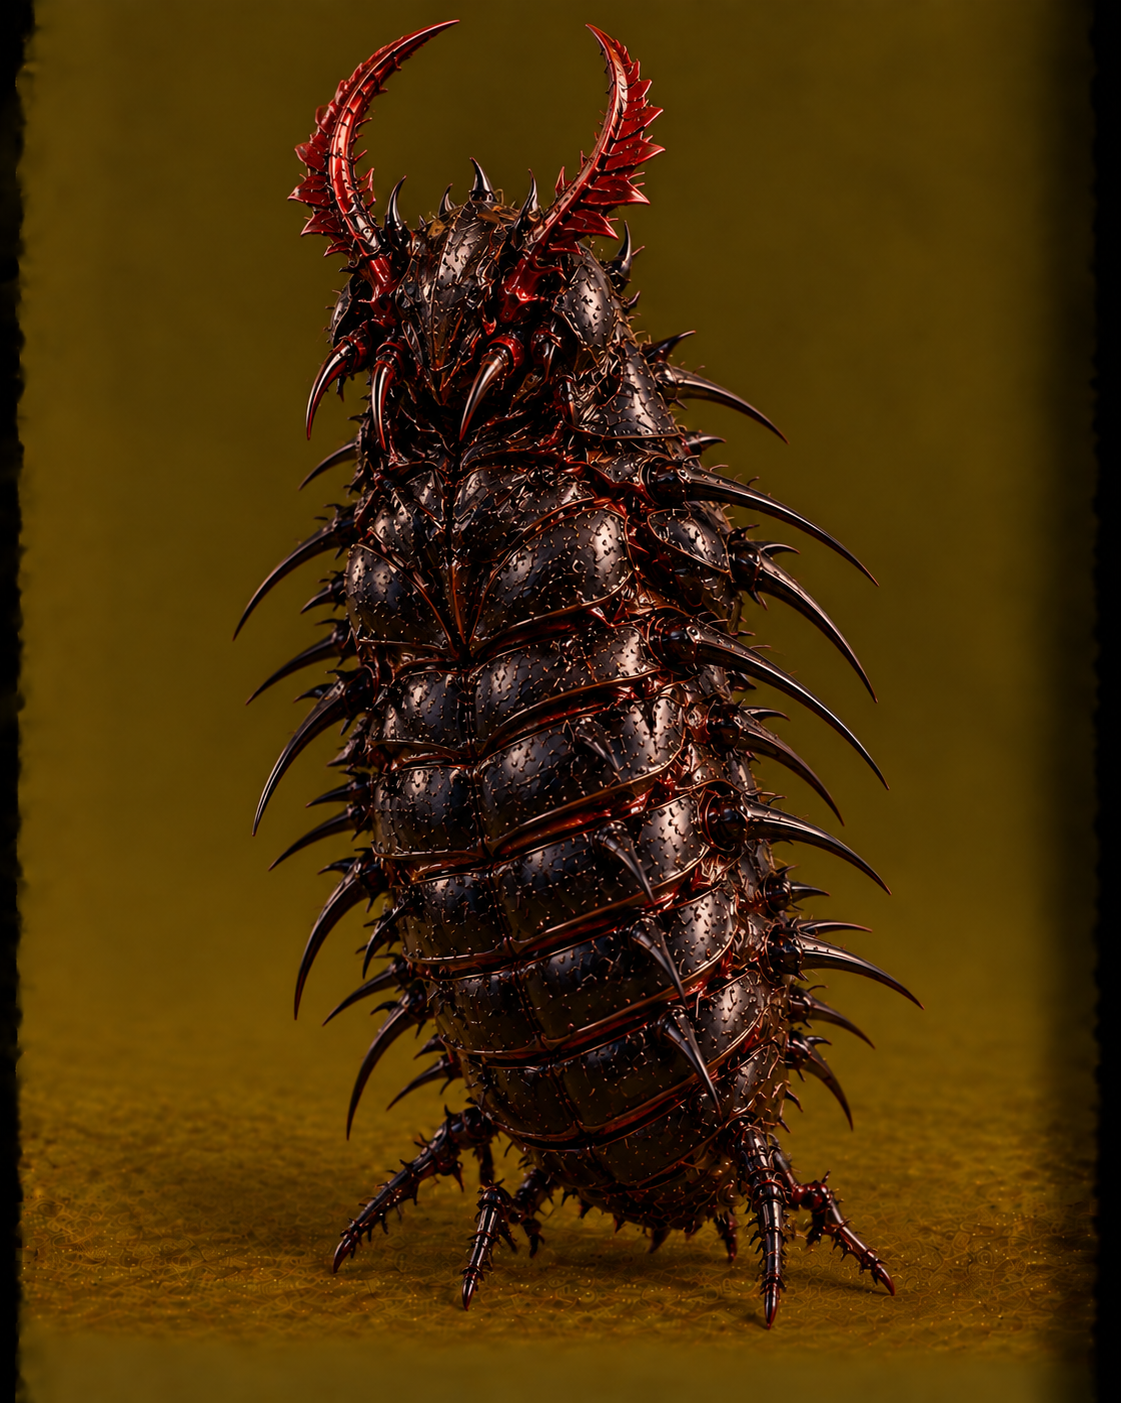
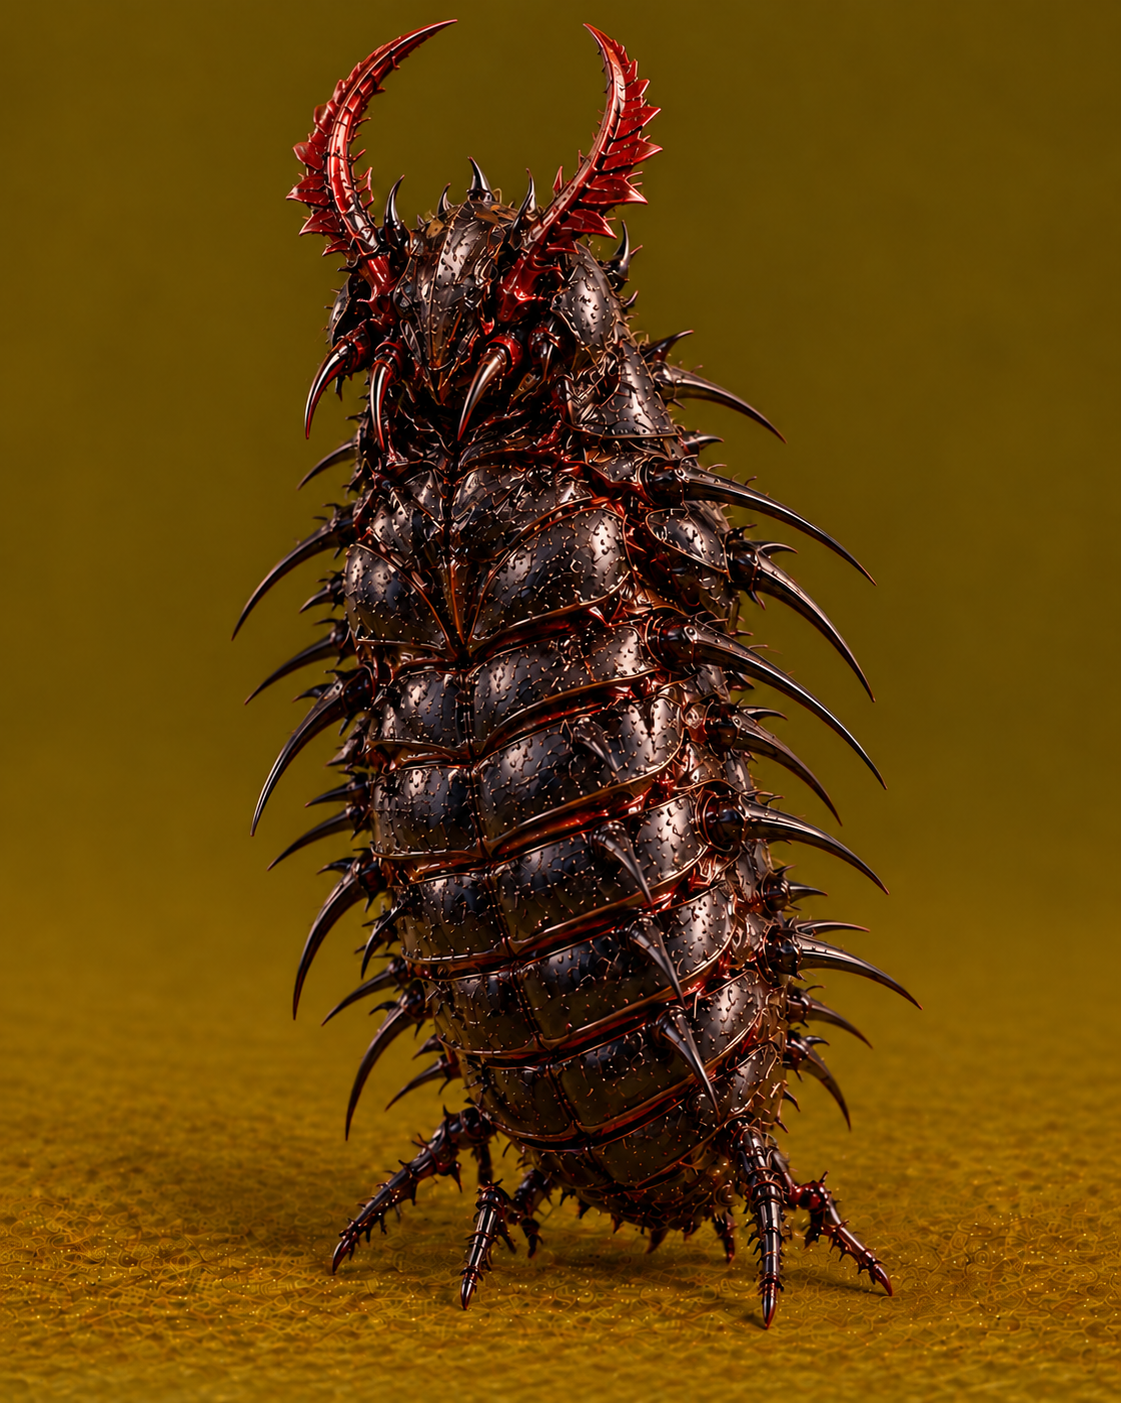
mosca enma

diff --git a/src/data/insetos.ts b/src/data/insetos.ts
@@ -43,12 +43,18 @@ Formilotos são especialmente eficientes em reconhecimento e preparação de ofe
 Quando isso acontece, dificilmente estão apenas de passagem. Estão observando.
 E quando a chuva cessa, geralmente o exército que elas estavam esperando também chega.`;
 const descricaoFormitanque = `Uma única Formitanque já representa uma enorme ameaça em um campo de batalha. Seu exoesqueleto é extremamente resistente, funcionando como uma verdadeira blindagem natural capaz de protegê-la de ataques que derrubariam uma Formilitar comum.
+
 Mas sua defesa não é sua única arma. As poderosas garras dianteiras podem estraçalhar inimigos com facilidade, enquanto as enormes pinças de sua boca são capazes de agarrar, esmagar e despedaçar adversários muito maiores que uma Formilitar.
+
 No campo de batalha, a Formitanque também exerce uma importante função de comando. Sua antena é capaz de emitir sinais de alerta que percorrem as tropas, indicando mudanças na formação, reorganizando as fileiras e coordenando complexas armadilhas de guerra. Quando uma Formitanque altera sua posição, dezenas ou até centenas de Formilitares podem mudar de estratégia em resposta aos seus sinais.
 Seu exoesqueleto possui espaços internos adaptados para o transporte de tropas e munição viva. Em seu interior, uma Formitanque é capaz de carregar duas Formilitares e quatro Granovos, protegidos por sua própria carapaça durante o avanço.
+
 E esse número pode ser ainda maior.
+
 As Formilitares também podem se agarrar e permanecer de pé sobre o corpo da Formitanque enquanto ela avança, transformando-a em uma verdadeira plataforma móvel de combate.
+
 Uma Formitanque não é apenas um tanque.
+
 É um tanque, um transporte de tropas, um centro de comando e uma fortaleza móvel — tudo em uma única criatura.`;
 const descricaoFormicoptero = `Formicópteros são raros, e uma colônia comum de Formilitares geralmente possui apenas um ou dois deles. Um Formicóptero surge quando um Formiloto extraordinariamente forte e habilidoso alcança sua última forma, tornando-se uma das unidades mais valiosas de todo o exército.
 
@@ -3830,6 +3836,79 @@ Por isso, as fêmeas dessa espécie adquiriram uma reputação de assustadora fr
 Há quem diga que existe certa satisfação nisso.
 
 Como se, depois de passar boa parte da vida sendo rejeitada por sua aparência, a Mutyuki jamais tivesse esquecido como é estar do outro lado.`;
+const descricaoNurarikilino = `Nurarikilinos são pequenas larvas de Myoskai conhecidas por sua inteligência incomum. Diferente da maioria dos insetos, começam a ser instruídos ainda dentro de seus Ovobakes e, quando finalmente eclodem, já sabem exatamente o que precisam fazer para sobreviver.
+
+Seu corpo é pequeno, fino e alongado, permitindo que se desloquem rapidamente e atravessem pequenas frestas. Essa agilidade é fundamental, pois um Nurarikilino recém-nascido precisa encontrar o abrigo de outro inseto e entrar sem ser percebido.
+
+Entretanto, ele não escolhe qualquer lugar.
+
+Nurarikilinos conhecem muito bem os hábitos de outros insetos e procuram especificamente abrigos onde larvas foram deixadas sozinhas, sem adultos que possam protegê-las. Encontrar situações assim não costuma ser particularmente difícil, considerando os hábitos parentais de muitas espécies.
+
+Uma vez dentro, o Nurarikilino simplesmente se instala.
+
+No início, é tão pequeno que sua presença pode passar despercebida. Ele permanece no abrigo enquanto seu anfitrião se alimenta e cresce, aproveitando a segurança e os recursos de um lar que nunca lhe pertenceu.
+
+Depois de algum tempo, o Nurarikilino sofre uma transformação incomum. Seu corpo muda drasticamente, tornando-se uma larva muito maior, robusta e pouco parecida com aquela pequena criatura que invadiu o abrigo. Essa transformação é conhecida como hipermetamorfose.
+
+A partir daí, já não precisa correr ou procurar lugar algum. O Nurarikilino passa a viver confortavelmente no abrigo alheio, aproveitando tudo aquilo que sua vítima ou seus pais deixaram disponível.
+
+Curiosamente, ele não costuma atacar o outro inseto.
+
+Não por amizade, gratidão ou qualquer consideração pelo verdadeiro morador, mas porque sabe que ainda não é o momento.
+
+O Nurarikilino permite que sua vítima continue se alimentando, crescendo e seguindo normalmente seu desenvolvimento. Enquanto isso, permanece ali como um hóspede indesejado que parece ter decidido que aquele abrigo também lhe pertence.
+
+Quando o anfitrião finalmente inicia sua pupação e se torna incapaz de fugir ou se defender, o Nurarikilino deixa de esperar.
+
+E o inseto que durante todo aquele tempo dividiu seu abrigo com o intruso finalmente descobre por que ele nunca foi embora.`;
+const descricaoPupakabe = `Depois de consumir o antigo morador do abrigo e completar seu desenvolvimento, o Nurarikilino finalmente se transforma em uma Pupakabe.
+
+Pupakabes são pupas largas e resistentes que permanecem justamente na entrada do abrigo que um dia invadiram. Seu corpo se adapta ao formato da passagem, preenchendo frestas e irregularidades até formar uma superfície que parece fazer parte da própria estrutura ao redor.
+
+Vista de fora, uma Pupakabe pode facilmente ser confundida com uma parede, uma pedra ou simplesmente o fim de uma passagem. Seu rosto largo e estranho permanece voltado para o exterior, quase imóvel, enquanto todo o restante de seu corpo fica protegido no interior.
+
+Isso torna bastante difícil perceber que existe um abrigo atrás dela.
+
+A Pupakabe não se alimenta e raramente se move, mas os espinhos e partes endurecidas de seu corpo tornam difícil retirá-la à força. Quando perturbada, consegue pressionar ainda mais o corpo contra as laterais da entrada, tornando-se uma verdadeira barreira para qualquer inseto que tente passar.
+
+Curiosamente, existe uma crença de que encontrar uma Pupakabe significa que algo valioso está escondido atrás dela.
+
+A história provavelmente surgiu porque muitos dos abrigos ocupados pelos Nurarikilinos ainda contêm alimento, materiais e outros recursos deixados pelos antigos proprietários. Em alguns casos, o próprio abrigo pode ter sido cuidadosamente construído e abastecido antes de ser tomado.
+
+Por isso, alguns insetos tentam arrancar Pupakabes de suas entradas na esperança de encontrar alguma riqueza escondida.
+
+Nem sempre encontram.
+
+Mas a Pupakabe permanece ali, bloqueando silenciosamente a passagem e protegendo tudo aquilo que existe atrás dela.
+
+Afinal, depois de invadir um abrigo, viver nele e devorar seu verdadeiro morador, seria um desperdício simplesmente abandoná-lo.`;
+const descricaoMoskenma = `Moskenmas são Myoskais robustas e extremamente peludas, reconhecidas pelos pelos amarelo-escuros que cobrem quase todo o corpo e pela espessa pelagem negra ao redor da boca. Dois pequenos espinhos sobre a cabeça completam sua aparência severa, dando-lhes um semblante que parece estar constantemente julgando aqueles ao redor.
+
+Apesar da aparência intimidadora, Moskenmas adultas passam boa parte do tempo entre flores, alimentando-se de néctar e pólen. São excelentes voadoras e conseguem permanecer suspensas no ar enquanto observam atentamente aquilo que acontece ao redor.
+
+Essa capacidade de observação é uma das características mais importantes da espécie.
+
+Moskenmas possuem uma memória excepcional e passam a vida acumulando informações sobre outros insetos: onde vivem, como constroem seus abrigos, do que suas larvas se alimentam, quanto tempo permanecem com seus descendentes e, principalmente, quando os abandonam.
+
+Todo esse conhecimento será necessário para a próxima geração.
+
+Antes de produzir seus Ovobakes, uma Moskenma passa longos períodos instruindo os descendentes que ainda existem dentro deles. É dessa forma que um Nurarikilino pode eclodir sabendo quais insetos procurar, quais evitar e onde provavelmente encontrará uma larva indefesa vivendo sozinha.
+
+Por esse motivo, Moskenmas não precisam colocar seus Ovobakes diretamente nos abrigos que serão invadidos. Elas os dispersam em locais cuidadosamente escolhidos, de onde os pequenos Nurarikilinos possam iniciar sozinhos sua procura.
+
+Entretanto, Moskenmas não dedicam todo o seu tempo aos descendentes.
+
+Algumas estabelecem territórios em locais elevados ou particularmente favoráveis e passam a vigiar aquela região. Machos podem disputar esses pontos e perseguir outros Moskenmas que se aproximem, retornando repetidamente ao mesmo lugar depois de expulsar o intruso.
+
+Essa combinação de comportamento territorial, postura severa e enorme conhecimento sobre os insetos ao redor fez surgir a crença de que Moskenmas estão constantemente avaliando todos aqueles que encontram.
+
+Talvez exista alguma verdade nisso.
+
+Uma Moskenma pode observar um inseto por alguns instantes, acompanhar seus movimentos e depois simplesmente ir embora sem fazer nada.
+
+O inseto observado dificilmente saberá qual foi sua conclusão.
+
+Muito menos se aquilo que ela acabou de aprender será ensinado a um Nurarikilino ainda dentro de um Ovobake.`;
 // const descricaoOvobake = ``;
 // const descricaoOvobake = ``;
 // const descricaoOvobake = ``;
@@ -5195,7 +5274,7 @@ export const insetos: Inseto[] = [
     estagio: 'forma ovo',
     ...dadosPendentes,
     tags: ['moscas'],
-    evolucoes: [{ insetoId: 'gakiru', tipo: 'ramificada' }, { insetoId: 'tapuli', tipo: 'ramificada' }, { insetoId: 'nureuji', tipo: 'ramificada' }, { insetoId: 'petopetosan', tipo: 'ramificada' }, { insetoId: 'ratesso', tipo: 'ramificada' }, { insetoId: 'moskappa', tipo: 'ramificada' }, { insetoId: 'myoskaitsuki', tipo: 'ramificada' }, { insetoId: 'futakuchi', tipo: 'ramificada' }, { insetoId: 'yoshukubi', tipo: 'ramificada' },  { insetoId: 'asawang', tipo: 'ramificada' }, { insetoId: 'subotoroshi', tipo: 'ramificada' }, { insetoId: 'kuroashi', tipo: 'ramificada' }],
+    evolucoes: [{ insetoId: 'gakiru', tipo: 'ramificada' }, { insetoId: 'tapuli', tipo: 'ramificada' }, { insetoId: 'nureuji', tipo: 'ramificada' }, { insetoId: 'petopetosan', tipo: 'ramificada' }, { insetoId: 'ratesso', tipo: 'ramificada' }, { insetoId: 'moskappa', tipo: 'ramificada' }, { insetoId: 'myoskaitsuki', tipo: 'ramificada' }, { insetoId: 'futakuchi', tipo: 'ramificada' }, { insetoId: 'yoshukubi', tipo: 'ramificada' },  { insetoId: 'asawang', tipo: 'ramificada' }, { insetoId: 'nurarikilino', tipo: 'ramificada' }, { insetoId: 'subotoroshi', tipo: 'ramificada' }, { insetoId: 'kuroashi', tipo: 'ramificada' }],
   },
   {
     id: 'gakiru',
@@ -5292,6 +5371,20 @@ export const insetos: Inseto[] = [
     ...dadosPendentes,
     tags: ['moscas'],
     evolucoes: [{ insetoId: 'cascadokuro', tipo: 'linear' }],
+    evolucaoDe: [{ insetoId: 'ovobake', tipo: 'linear' }],
+    tipoEvolucao: 'ramificada',
+  },
+  {
+    id: 'nurarikilino',
+    nome: 'Nurarikilino',
+    nomeIngles: 'Nurarikilino',
+    imagem: '/images/moscas/nurarikilino.png',
+    descricao: descricaoNurarikilino,
+    linhagem: 'moscas',
+    estagio: 'forma larva',
+    ...dadosPendentes,
+    tags: ['moscas'],
+    evolucoes: [{ insetoId: 'pupakabe', tipo: 'linear' }],
     evolucaoDe: [{ insetoId: 'ovobake', tipo: 'linear' }],
     tipoEvolucao: 'ramificada',
   },
@@ -5492,6 +5585,20 @@ export const insetos: Inseto[] = [
     tipoEvolucao: 'linear',
   },
   {
+    id: 'pupakabe',
+    nome: 'Pupakabe',
+    nomeIngles: 'Pupakabe',
+    imagem: '/images/moscas/pupakabe.png',
+    descricao: descricaoPupakabe,
+    linhagem: 'moscas',
+    estagio: 'forma casulo',
+    ...dadosPendentes,
+    tags: ['moscas'],
+    evolucoes: [{ insetoId: 'moskenma', tipo: 'linear' }],
+    evolucaoDe: [{ insetoId: 'nurarikilino', tipo: 'linear' }],
+    tipoEvolucao: 'linear',
+  },
+  {
     id: 'haenya',
     nome: 'Haenya',
     nomeIngles: 'Haenya',
@@ -5615,6 +5722,20 @@ export const insetos: Inseto[] = [
     tags: ['moscas'],
     evolucoes: [],
     evolucaoDe: [{ insetoId: 'cascadokuro', tipo: 'linear' }],
+    tipoEvolucao: 'linear',
+  },
+  {
+    id: 'moskenma',
+    nome: 'Moskenma',
+    nomeIngles: 'Moskenma',
+    imagem: '/images/moscas/moskenma.png',
+    descricao: descricaoMoskenma,
+    linhagem: 'moscas',
+    estagio: 'forma comum',
+    ...dadosPendentes,
+    tags: ['moscas'],
+    evolucoes: [],
+    evolucaoDe: [{ insetoId: 'pupakabe', tipo: 'linear' }],
     tipoEvolucao: 'linear',
   },
   {

diff --git a/src/data/linhagens.ts b/src/data/linhagens.ts
@@ -250,7 +250,7 @@ export const linhagens: Linhagem[] = [
     descricao: descricaoMoscas,
     imagemCapa: '/images/moscas/capa.png',
     tema: '#5c4b3a',
-    criaturas: ['ovobake', 'gakiru', 'kasulobake' ,'moskaname', 'tapuli', 'ninjulo', 'moshinobi', 'yoshukubi', 'pupanggalan', 'tikitiki', 'futakuchi', 'nureuji','noppupabo', 'moskorobi', 'myoskaitsuki', 'haenya', 'kyuyoku', 'kuroashi', 'mayukade', 'daimydas', 'ratesso', 'volumezumi', 'sanagiarai','moskappa', 'mutyuki', 'cascadokuro', 'nectanuki', 'asawang','sonogaeshi','tsenanggal', 'subotoroshi', 'komahae', 'ibarakihae', 'haetengu','petopetosan','pupamokuren','mosake','shogulo' ],
+    criaturas: ['ovobake', 'gakiru', 'kasulobake' ,'moskaname', 'tapuli', 'ninjulo', 'moshinobi', 'yoshukubi', 'pupanggalan', 'tikitiki', 'futakuchi', 'nureuji','noppupabo', 'moskorobi', 'myoskaitsuki', 'haenya', 'kyuyoku', 'kuroashi', 'mayukade', 'daimydas', 'ratesso', 'volumezumi', 'sanagiarai','moskappa', 'mutyuki', 'cascadokuro', 'nectanuki', 'asawang','sonogaeshi','tsenanggal','nurarikilino','pupakabe','moskenma', 'subotoroshi', 'komahae', 'ibarakihae', 'haetengu','petopetosan','pupamokuren','mosake','shogulo' ],
   },
 ]
 
